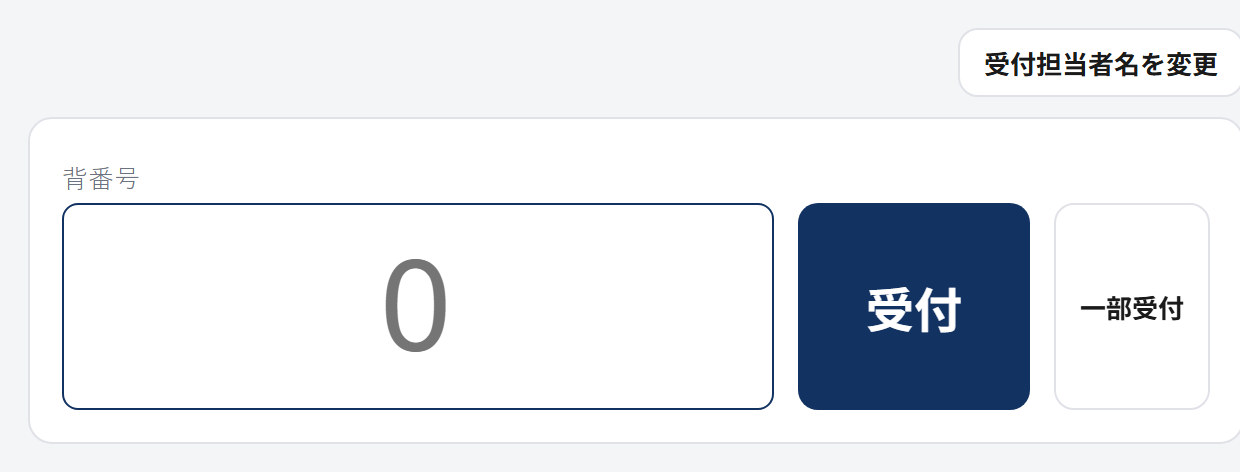
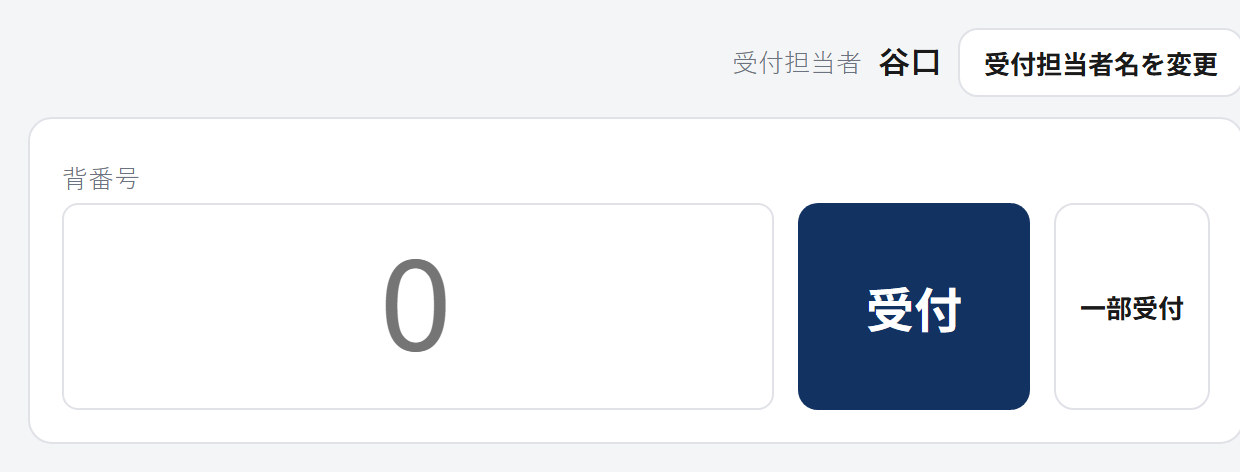
feat(uketsuke): 受付画面にも受付担当者名を出す
タブの「受付（高田）」だけでは見落とすので、「受付担当者名を変更」ボタンの
左に「受付担当者 高田」と出すようにした（欠場処理チェック担当者と同じ並び）。
マニュアルの図も差し替え。

diff --git a/uketsuke.html b/uketsuke.html
@@ -231,11 +231,13 @@
     <section id="v-checkin" class="hidden">
       <!-- 誰の名前で受付しているかは常に見えている必要があるが、入力欄を出しっぱなしにすると
            背番号の邪魔になるので、名前の表示と「変更」ボタンだけを置く -->
-      <!-- 担当者名はタブに出しているので、ここには変更の入口だけ置く。
+      <!-- 誰の名前で受付しているかは、タブとこの行の両方に出す。
            記録に付ける値は #by が持つ（この端末の localStorage に記憶する）。 -->
       <input type="hidden" id="by">
       <div class="row" style="margin-bottom:10px">
-        <button type="button" class="small secondary" id="ci-by-edit" style="margin-left:auto">受付担当者名を変更</button>
+        <span class="muted" style="margin-left:auto">受付担当者</span>
+        <b id="ci-by-name">未設定</b>
+        <button type="button" class="small secondary" id="ci-by-edit">受付担当者名を変更</button>
       </div>
 
       <form class="card" id="ci-form">
@@ -845,6 +847,7 @@ function renderBy(){
   /* 誰の名前で受付しているかは常に見えている必要があるので、受付タブに出す。
      ただし大会を開く前は受付そのものができないので、名前は出さない。 */
   el('tab-checkin').textContent = COMP ? '受付（' + (v || '未設定') + '）' : '受付';
+  el('ci-by-name').textContent = v || '未設定';
 }
 function saveBy(v){
   el('by').value = String(v || '').trim();
